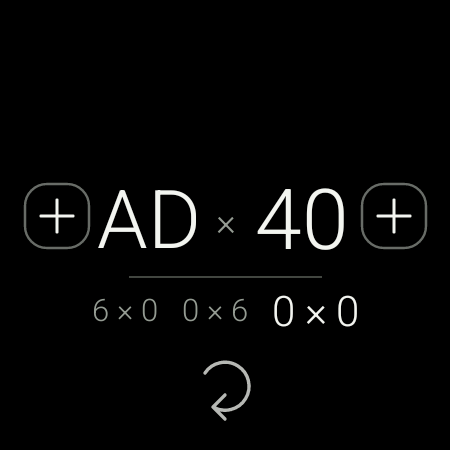
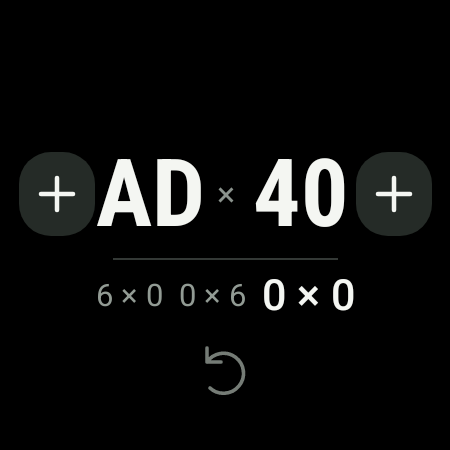
style(tennis-watch): strengthen the watch scoring layout
Make points easier to read at a glance with condensed bold numerals,
filled plus controls, and a tighter vertical layout. Preserve the original
single-screen controls, match gestures, and 48dp touch targets.

The Debug preview passed scoring, undo, swipe, and restart checks on a
round Wear OS emulator. Captures cover large text, advantage, tiebreak,
and empty states. The release build and all 54 tests pass.

Changed region(s): [[0.0311, 0.3111, 0.9644, 0.7467], [0.4356, 0.7778, 0.56, 0.9333]]

diff --git a/tennis-watch/src/TennisWatch/Scoring/ScorePage.cs b/tennis-watch/src/TennisWatch/Scoring/ScorePage.cs
@@ -5,14 +5,16 @@ namespace TennisWatch.Scoring;
 
 public sealed class ScorePage : ContentPage
 {
+    internal const int PointFontSize = 48;
+
     private readonly MatchFile storage = new(Path.Combine(FileSystem.AppDataDirectory, "matches.json"));
     private readonly MatchBook book;
     private readonly AbsoluteLayout face = new() { BackgroundColor = Colors.Black };
-    private readonly Label leftPoints = ScoreLabel(42);
-    private readonly Label rightPoints = ScoreLabel(42);
-    private readonly Label separator = ScoreLabel(14);
-    private readonly HorizontalStackLayout sets = new() { Spacing = 12, HorizontalOptions = LayoutOptions.Center };
-    private readonly BoxView line = new() { Color = Color.FromArgb("#424640") };
+    private readonly Label leftPoints = PointLabel();
+    private readonly Label rightPoints = PointLabel();
+    private readonly Label separator = ScoreLabel(13);
+    private readonly HorizontalStackLayout sets = new() { Spacing = 8, HorizontalOptions = LayoutOptions.Center };
+    private readonly BoxView line = new() { Color = Color.FromArgb("#343936") };
     private readonly ImageButton leftPlus;
     private readonly ImageButton rightPlus;
     private readonly ImageButton undo;
@@ -30,7 +32,7 @@ public sealed class ScorePage : ContentPage
         leftPoints.AutomationId = "left-points";
         rightPoints.AutomationId = "right-points";
         separator.Text = "×";
-        separator.TextColor = Color.FromArgb("#949B92");
+        separator.TextColor = Color.FromArgb("#8B938D");
         foreach (var view in new View[] { leftPlus, leftPoints, separator, rightPoints, rightPlus, line, sets, undo })
             face.Add(view);
         Content = face;
@@ -57,7 +59,7 @@ public sealed class ScorePage : ContentPage
         SemanticProperties.SetDescription(button, description);
         button.Clicked += (_, _) => Change(action);
         button.Pressed += (_, _) => button.Opacity = 0.55;
-        button.Released += (_, _) => button.Opacity = 1;
+        button.Released += (_, _) => button.Opacity = id == "undo" ? 0.8 : 1;
         return button;
     }
 
@@ -79,17 +81,18 @@ public sealed class ScorePage : ContentPage
         {
             var label = ScoreLabel(12);
             label.Text = score.ToString();
-            label.TextColor = Color.FromArgb("#949B92");
+            label.TextColor = Color.FromArgb("#929B94");
             SemanticProperties.SetDescription(label, $"Completed set, {score.Left} to {score.Right}");
             sets.Add(label);
         }
-        var current = ScoreLabel(17);
+        var current = ScoreLabel(18);
+        current.FontFamily = "sans-serif-medium";
         current.Text = book.Score.Games.ToString();
         current.AutomationId = "current-set";
         SemanticProperties.SetDescription(current, $"Current set games, {book.Score.Games.Left} to {book.Score.Games.Right}");
         sets.Add(current);
         undo.IsEnabled = book.CanUndo;
-        undo.Opacity = book.CanUndo ? 0.75 : 0.3;
+        undo.Opacity = book.CanUndo ? 0.8 : 0.3;
         Arrange();
     }
 
@@ -103,19 +106,27 @@ public sealed class ScorePage : ContentPage
             AbsoluteLayout.SetLayoutBounds(view, new Rect(offsetX + size * centerX - width / 2,
                 offsetY + size * centerY - height / 2, width, height));
 
-        Place(leftPlus, 0.125, 0.48, 48, 48);
-        Place(leftPoints, 0.33, 0.48, size * 0.23, 62);
-        Place(separator, 0.5, 0.49, size * 0.1, 40);
-        Place(rightPoints, 0.67, 0.48, size * 0.23, 62);
-        Place(rightPlus, 0.875, 0.48, 48, 48);
-        Place(line, 0.5, 0.615, size * 0.43, 0.75);
-        Place(sets, 0.5, 0.685, size * 0.72, 32);
-        Place(undo, 0.5, 0.855, 48, 48);
+        Place(leftPlus, 0.125, 0.43, 48, 48);
+        Place(leftPoints, 0.332, 0.43, size * 0.25, 66);
+        Place(separator, 0.5, 0.43, size * 0.075, 40);
+        Place(rightPoints, 0.668, 0.43, size * 0.25, 66);
+        Place(rightPlus, 0.875, 0.43, 48, 48);
+        Place(line, 0.5, 0.575, size * 0.5, 0.75);
+        Place(sets, 0.5, 0.655, size * 0.76, 32);
+        Place(undo, 0.5, 0.825, 48, 48);
+    }
+
+    private static Label PointLabel()
+    {
+        var label = ScoreLabel(PointFontSize);
+        label.FontFamily = "sans-serif-condensed";
+        label.FontAttributes = FontAttributes.Bold;
+        return label;
     }
 
     private static Label ScoreLabel(double fontSize) => new()
     {
-        FontFamily = "sans-serif-light", FontSize = fontSize, TextColor = Color.FromArgb("#F3F5F0"),
+        FontFamily = "sans-serif", FontSize = fontSize, TextColor = Color.FromArgb("#F4F6F2"),
         HorizontalTextAlignment = TextAlignment.Center, VerticalTextAlignment = TextAlignment.Center,
         VerticalOptions = LayoutOptions.Center, MaxLines = 1,
         LineBreakMode = LineBreakMode.NoWrap, FontAutoScalingEnabled = true

diff --git a/tennis-watch/src/TennisWatch/MauiProgram.cs b/tennis-watch/src/TennisWatch/MauiProgram.cs
@@ -8,8 +8,10 @@ public static class MauiProgram
             handler.PlatformView.Background = null);
         Microsoft.Maui.Handlers.LabelHandler.Mapper.AppendToMapping("FitWatchScore", (handler, label) =>
         {
+            handler.PlatformView.SetIncludeFontPadding(false);
+            handler.PlatformView.FontFeatureSettings = "tnum";
             if (label is Label { AutomationId: "left-points" or "right-points" })
-                handler.PlatformView.SetAutoSizeTextTypeUniformWithConfiguration(24, 42, 1,
+                handler.PlatformView.SetAutoSizeTextTypeUniformWithConfiguration(24, Scoring.ScorePage.PointFontSize, 1,
                     (int)Android.Util.ComplexUnitType.Sp);
         });
         return MauiApp.CreateBuilder().UseMauiApp<App>().Build();

diff --git a/tennis-watch/docs/verification.md b/tennis-watch/docs/verification.md
@@ -1,6 +1,6 @@
 # Verification
 
-The release APK was installed in a Wear OS 5 emulator with a round 450 × 450 display at 320 dpi. The screenshots use controlled match data and come directly from that installed APK.
+The redesign preview was built with `dotnet build TennisWatch.csproj -c Debug -t:SignAndroidPackage` and installed in a Wear OS 5 emulator with a round 450 × 450 display at 320 dpi. The screenshots use controlled match data and come directly from that installed APK.
 
 | State | Capture |
 | --- | --- |
@@ -9,7 +9,7 @@ The release APK was installed in a Wear OS 5 emulator with a round 450 × 450 di
 | 11–10 tiebreak, games 6–6 | [Tiebreak](screenshots/tiebreak.png) |
 | New match, undo disabled | [Empty](screenshots/empty.png) |
 
-On the installed release build, ADB touch input verified adding a point, undoing it, starting a match with a right swipe, returning with a left swipe, the oldest-match boundary, and cancellation of horizontal and vertical drags that start on a plus button. Restarting the app restored both the selected match and the ability to undo.
+On the installed preview build, ADB touch input verified adding a point, undoing it, starting a match with a right swipe, returning with a left swipe, the oldest-match boundary, and cancellation of horizontal and vertical drags that start on a plus button. Restarting the app restored both the selected match and the ability to undo.
 
 The 54 data-driven unit tests cover advantage scoring, set boundaries, extended tiebreaks, continued scoring, undo across boundaries, independent match histories, swipe thresholds, file persistence, and an interrupted temporary write. Coverage excludes generated JSON serialization code.
 

diff --git a/tennis-watch/PRODUCT.md b/tennis-watch/PRODUCT.md
@@ -11,7 +11,7 @@ A tennis player records points during a match by tapping the left or right plus 
 The supplied sketch defines the single screen: two point scores, one plus button per side, a divider, a small games/set score, and undo beneath. No player names, match completion screen, menus, settings, or other features. Swipe right creates a new match; swipe left opens the previous match. Match scoring and undo history persist locally.
 
 ## Appearance
-Preserve the sketch’s composition with a polished, minimal finish. Large light-weight score numerals lead, plus buttons have quiet rounded outlines, and the small score and undo recede. Keep the black background and restrained white/gray palette.
+Preserve the sketch’s composition with a minimal black-and-white finish. Points and the plus controls lead; the games row and undo have less visual emphasis. The scoring screen must remain legible during a quick glance on court.
 
 ## Scoring assumption
 Standard advantage games and a seven-point tiebreak at six games each. The small row shows games in the current set alongside completed set scores. Matches continue until the user starts another one. The curved arrow undoes the last point.
